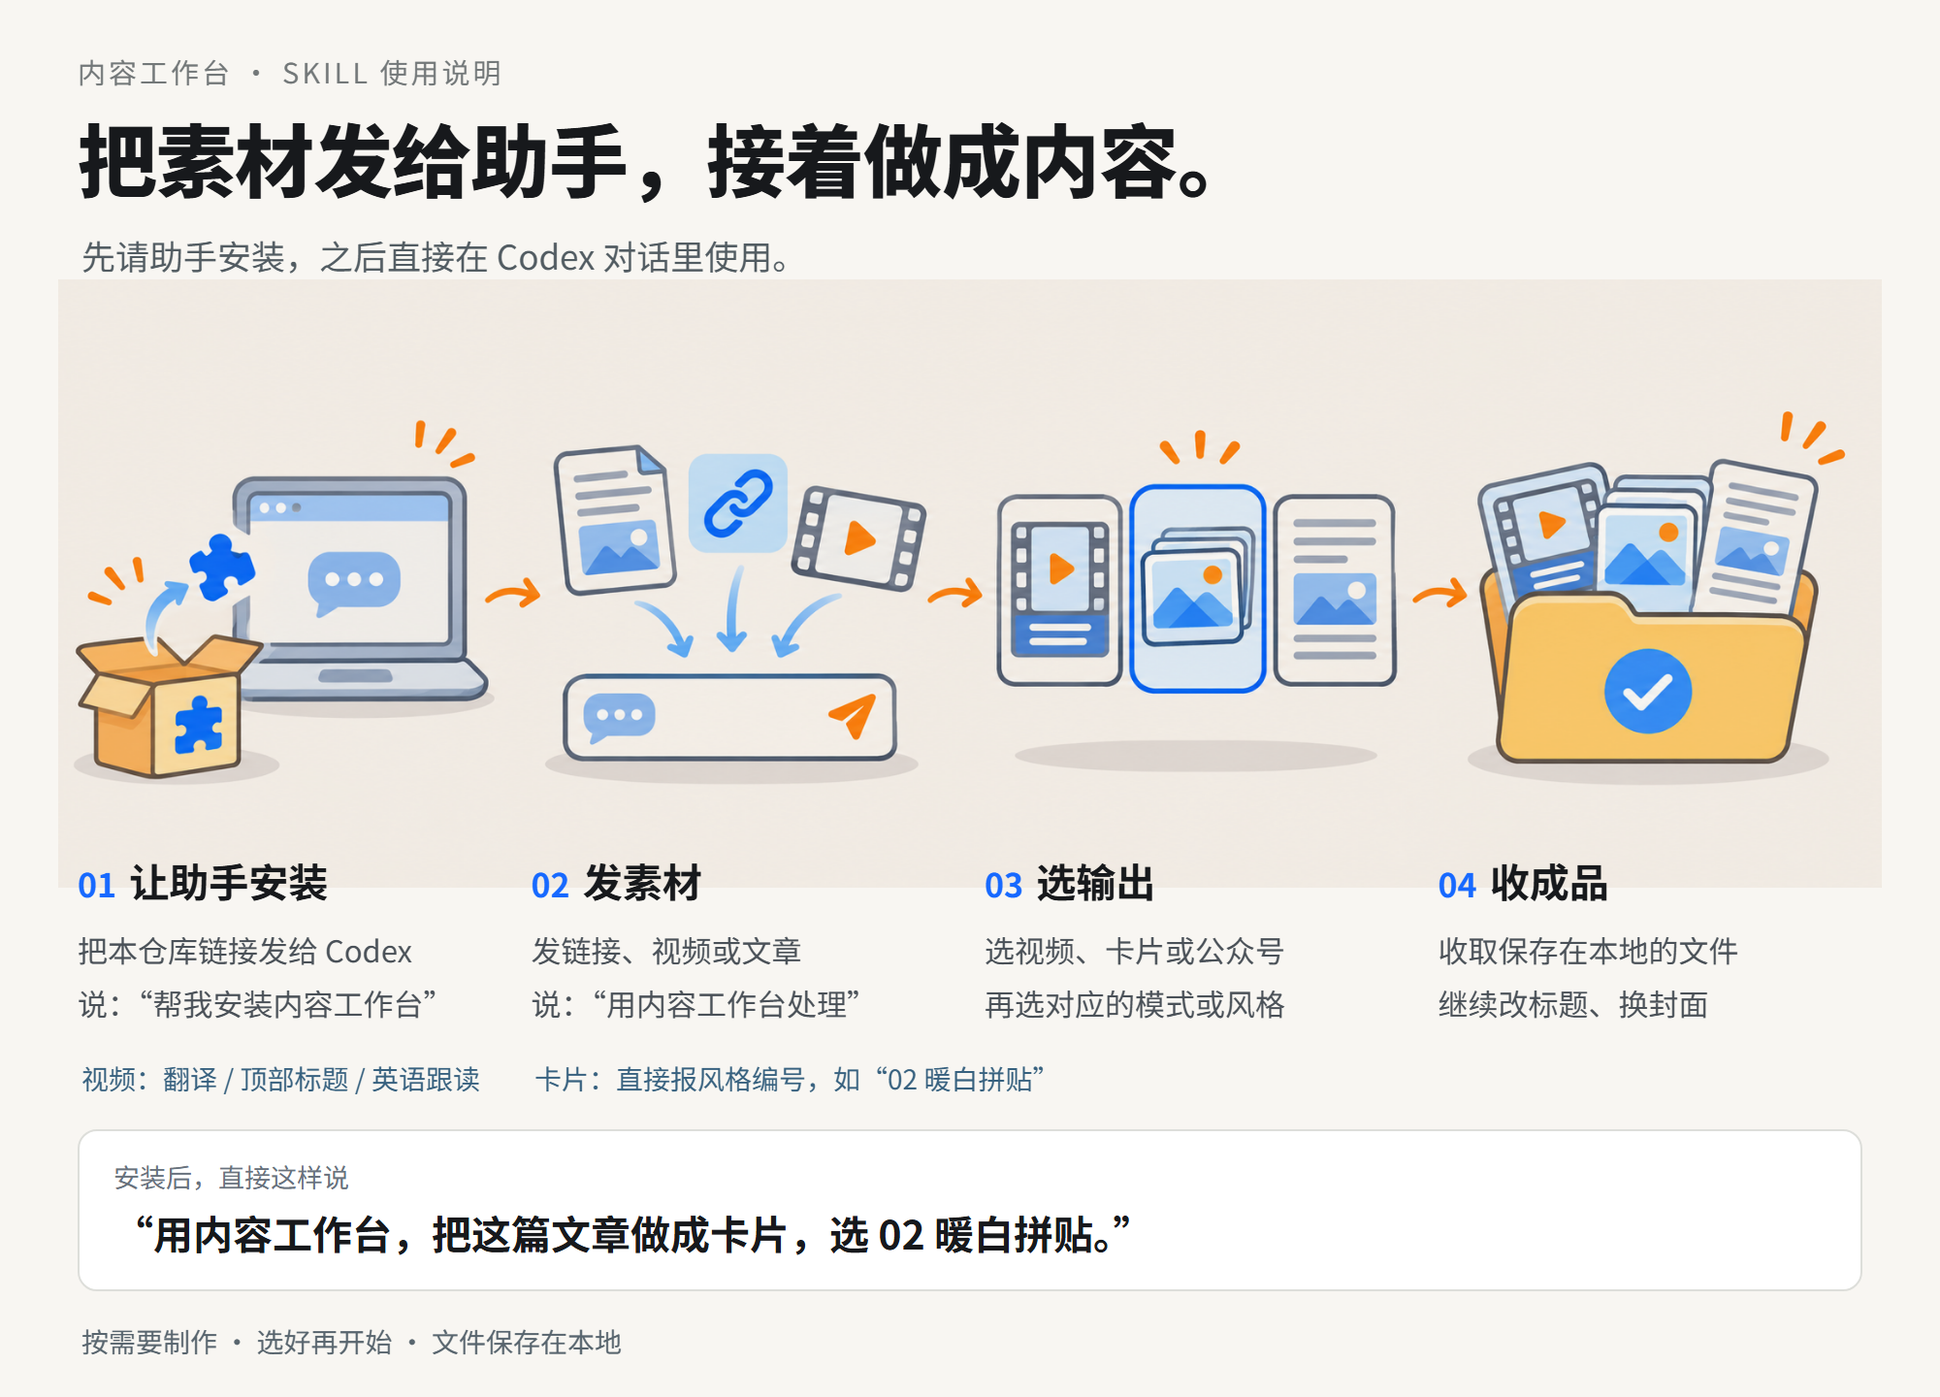
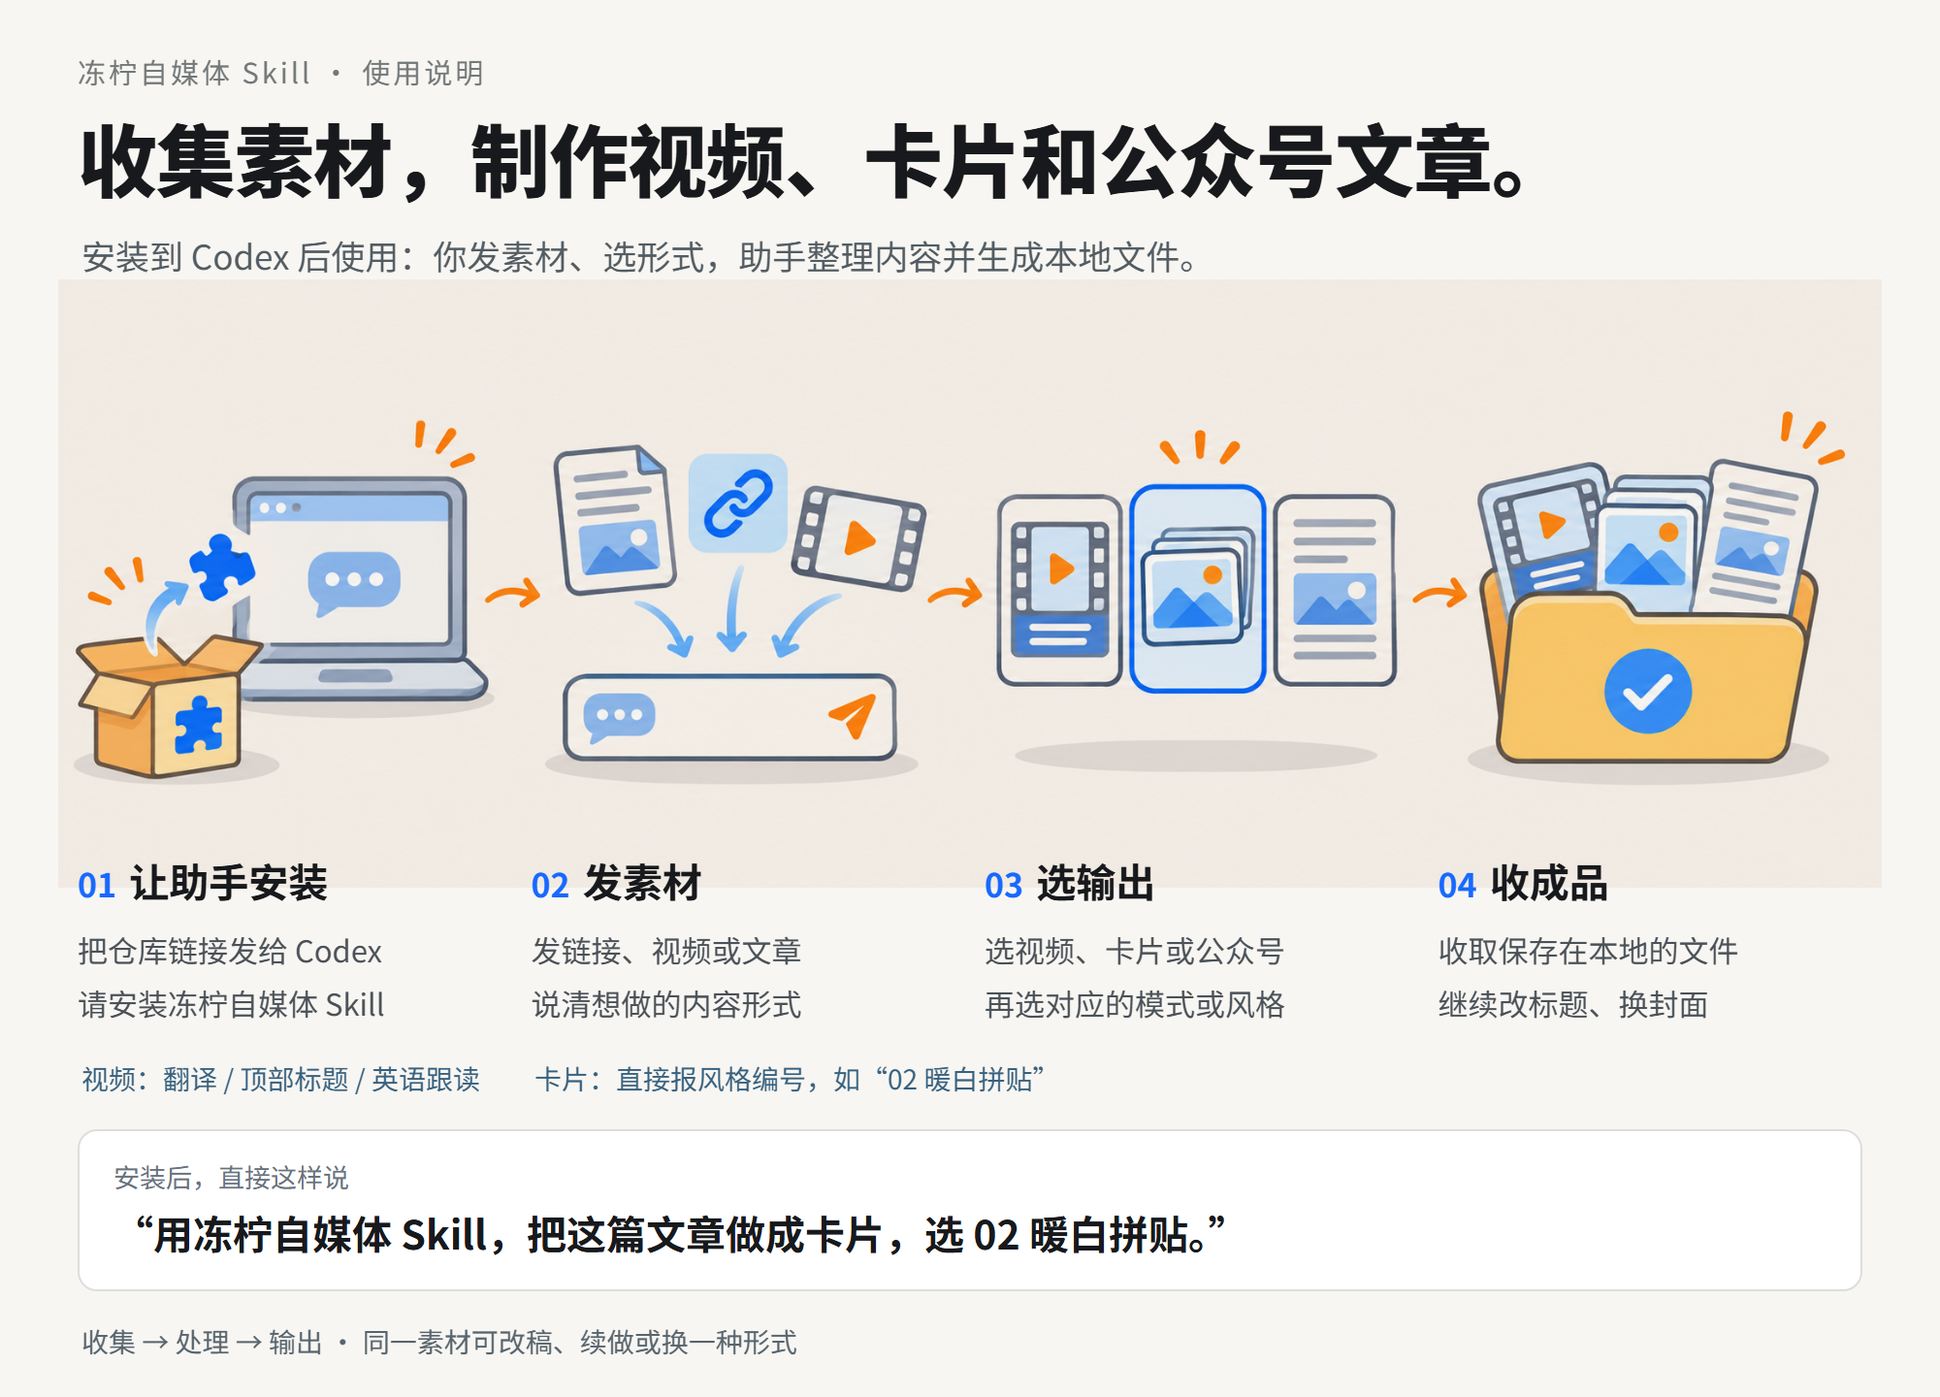
Rename public product to Dongning Media Skill and explain creator workflow

diff --git a/tools/build_release.py b/tools/build_release.py
@@ -8,6 +8,7 @@ from pathlib import Path
 ROOT = Path(__file__).resolve().parents[1]
 FILES = ("README.md", "LICENSE", "pyproject.toml", "THIRD_PARTY_NOTICES.md", "CONTRIBUTING.md", ".gitignore", ".gitattributes")
 DIRECTORIES = ("skills", "docs", "examples", "tools", "tests", ".github")
+ARCHIVE_ROOT = "dongning-media-skill"
 
 
 def public_files():
@@ -40,17 +41,17 @@ def main():
     version = release_version()
     directory = ROOT / "dist"
     directory.mkdir(exist_ok=True)
-    target = directory / f"content-workbench-v{version}.zip"
+    target = directory / f"{ARCHIVE_ROOT}-v{version}.zip"
     if target.exists():
         suffix = 2
-        while (directory / f"content-workbench-v{version}-{suffix}.zip").exists():
+        while (directory / f"{ARCHIVE_ROOT}-v{version}-{suffix}.zip").exists():
             suffix += 1
-        target = directory / f"content-workbench-v{version}-{suffix}.zip"
+        target = directory / f"{ARCHIVE_ROOT}-v{version}-{suffix}.zip"
     files = public_files()
     with zipfile.ZipFile(target, "w", zipfile.ZIP_DEFLATED) as archive:
         for path in files:
-            archive.write(path, "content-workbench/" + path.relative_to(ROOT).as_posix())
-        archive.writestr("content-workbench/release-manifest.json", json.dumps({"version": version, "files": [{"path": p.relative_to(ROOT).as_posix(), "sha256": hashlib.sha256(p.read_bytes()).hexdigest()} for p in files]}, ensure_ascii=False, indent=2))
+            archive.write(path, ARCHIVE_ROOT + "/" + path.relative_to(ROOT).as_posix())
+        archive.writestr(ARCHIVE_ROOT + "/release-manifest.json", json.dumps({"version": version, "files": [{"path": p.relative_to(ROOT).as_posix(), "sha256": hashlib.sha256(p.read_bytes()).hexdigest()} for p in files]}, ensure_ascii=False, indent=2))
     print(json.dumps({"archive": str(target), "bytes": target.stat().st_size, "files": len(files), "sha256": hashlib.sha256(target.read_bytes()).hexdigest()}, indent=2))
 
 

diff --git a/skills/content-workbench/scripts/content_workbench/cli.py b/skills/content-workbench/scripts/content_workbench/cli.py
@@ -42,7 +42,7 @@ def doctor(workspace):
 
 
 def parser():
-    p = argparse.ArgumentParser(description="Content Workbench — collect, process and export with an AI host")
+    p = argparse.ArgumentParser(description="冻柠自媒体 Skill — collect sources and produce videos, image cards and WeChat articles")
     p.add_argument("--workspace", default=os.environ.get("CWB_WORKSPACE", str(Path.home() / ".content-workbench")))
     p.add_argument("--version", action="version", version=__version__)
     commands = p.add_subparsers(dest="command", required=True)

diff --git a/skills/content-workbench/scripts/content_workbench/__init__.py b/skills/content-workbench/scripts/content_workbench/__init__.py
@@ -1,2 +1,2 @@
-"""Content Workbench: filesystem-first tools for agent-assisted content production."""
-__version__ = "0.1.2"
+"""Dongning Media Skill: local tools for collecting and producing creator content."""
+__version__ = "0.1.3"

diff --git a/docs/advanced.md b/docs/advanced.md
@@ -1,6 +1,6 @@
 # 详细安装与进阶使用
 
-把素材收进来，再按需要做成字幕视频、图文卡片与公众号文章。
+冻柠自媒体 Skill 用于把收集的链接、视频和文章，制作成中英字幕视频、图文卡片或公众号文章。可先保存素材，再加工、检查和导出，之后继续改稿或复用。
 
 这是一个安装到 AI 助手中的 **Skill + 本地工具包**。助手负责理解素材、研究、翻译和写作；工具负责收集、版本记录、确定性排版、媒体合成、检查和导出。v0.1 先支持 Codex；不包含在线账户系统或自动发布。
 
@@ -34,8 +34,8 @@
 需要 Python 3.10+。可以下载发布包并解压，或将仓库克隆到便于识别的目录：
 
 ```sh
-git clone https://github.com/s26233792-lab/-.git content-workbench
-cd content-workbench
+git clone https://github.com/s26233792-lab/-.git dongning-media-skill
+cd dongning-media-skill
 ```
 
 在项目目录运行：
@@ -46,6 +46,8 @@ python tools/install_skill.py
 ```
 
 安装工具把自包含技能复制到 Codex 的用户技能目录（遵守 `CODEX_HOME`）；同名技能已存在时停止，不覆盖。按照宿主的技能发现方式重新载入技能或开启新会话。
+
+界面显示名称为“冻柠自媒体 Skill”。内部技能标识 `content-workbench`、`cwb` 命令和既有素材目录继续兼容，已有内容无需迁移。
 
 视频制作另需 **FFmpeg 和 ffprobe**，并且 FFmpeg 构建包含 libass 与 libx264。在线视频下载和本地转录按需要安装：
 
@@ -87,16 +89,16 @@ python skills/content-workbench/scripts/cwb.py --workspace ./workspace init
 翻译与顶部标题只需句子时间，英语跟读才要求真实词时间。顶部标题是画面上的文字，与封面分别维护。
 
 ```text
-用内容工作台收集下面这五条链接，打上“待选题”标签，先不要下载或制作。
+用冻柠自媒体 Skill 收集下面这五条链接，打上“待选题”标签，先不要下载或制作。
 
-用内容工作台把刚收集的视频做成完整中英字幕版，配封面和小红书、抖音、X 文案。
+用冻柠自媒体 Skill 把刚收集的视频做成完整中英字幕版，配封面和小红书、抖音、X 文案。
 
 把第二条素材做成五张图文卡片，再给一份公众号文章发布包。
 
 接着上次的公众号稿，只改标题和封面，复用已经核验的来源。
 ```
 
-助手会按请求选择输出；缺少某类稿件不是额外制作它的授权。单独使用旧“短视频剪辑”“卡片知识”技能时，仍遵循各自入口；本技能用“内容工作台”或明确收集/跨格式加工请求触发。
+助手会按请求选择输出；缺少某类稿件不是额外制作它的授权。单独使用旧“短视频剪辑”“卡片知识”技能时，仍遵循各自入口；本技能用“冻柠自媒体 Skill”或明确收集/跨格式加工请求触发，旧称“内容工作台”仍可识别。
 
 ## 直接使用工具
 

diff --git a/README.md b/README.md
@@ -1,10 +1,16 @@
-# 内容工作台
+# 冻柠自媒体 Skill
 
-把链接、视频或文章发给助手，做成字幕视频、图文卡片或公众号文章。
+**冻柠自媒体 Skill 是一个给自媒体创作者用的 AI 技能包，在 Codex 对话里使用。** 把链接、视频或文章交给助手，告诉它用途，它会接着整理素材、加工文案，制作你需要的中文内容。
+
+- **做字幕视频**：为已有视频制作中英字幕成片，选择普通翻译、顶部标题或英语跟读，按需配封面和发布文案。
+- **做图文卡片**：把文章、访谈或资料整理成逐页内容，选择喜欢的视觉风格，输出图片和封面。
+- **做公众号文章**：整理正文、摘要、封面与配图，输出排版文件，方便复制到公众号后台。
+
+也可以先收藏素材，之后再制作。同一份资料支持继续改稿、换封面，或再做成另一种形式，把 **收集 → 处理 → 输出** 接起来。
 
 [下载安装包](https://github.com/s26233792-lab/-/releases/latest) · [详细安装](docs/advanced.md) · [成品示例](docs/advanced.md#离线输出示例)
 
-![内容工作台使用图解：让助手安装，发素材，选输出，收成品；附可直接使用的示例说法](docs/images/skill-usage.png)
+![冻柠自媒体 Skill 使用图解：安装后收集链接、视频和文章，选择输出形式，得到字幕视频、图文卡片或公众号文章](docs/images/skill-usage.png)
 
 **安装一次 → 发素材 → 选输出 → 收成品**
 
@@ -13,7 +19,7 @@
 先把下面这段话发给 Codex，让它帮你安装：
 
 ```text
-请帮我安装这个仓库里的内容工作台技能，并检查、准备需要的运行环境。
+请帮我安装这个仓库里的「冻柠自媒体 Skill」，并检查、准备需要的运行环境。
 保留我已有的文件。
 https://github.com/s26233792-lab/-
 ```
@@ -30,10 +36,10 @@ https://github.com/s26233792-lab/-
 
 | 你想做什么 | 发给助手这句话 |
 |---|---|
-| 先收藏素材 | 用内容工作台收集这些素材，先不要制作。 |
-| 做短视频 | 用内容工作台，把这个视频做成短视频，配好封面和发布文案。 |
-| 做图文卡片 | 用内容工作台，把这份资料做成一组图文卡片。 |
-| 做公众号文章 | 用内容工作台，把这份资料写成公众号文章，配好封面和排版。 |
+| 先收藏素材 | 用冻柠自媒体 Skill 收集这些素材，先不要制作。 |
+| 做短视频 | 用冻柠自媒体 Skill，把这个视频做成中英字幕版，配好封面和发布文案。 |
+| 做图文卡片 | 用冻柠自媒体 Skill，把这份资料做成一组图文卡片。 |
+| 做公众号文章 | 用冻柠自媒体 Skill，把这份资料写成公众号文章，配好封面和排版。 |
 
 ### 做视频时，你来选模式
 

diff --git a/docs/images/simulated-samples.md b/docs/images/simulated-samples.md
@@ -16,18 +16,20 @@
[1 lines of base64/hex data omitted]
 - 中文由 HTML/CSS 排版，字体加载后导出；标题、正文和页码单独定位，检查边界与实际画面。
 - 卡片标题通常为“把收藏 / 变成作品”；语录版为“先整理一份素材，再完成一份作品。”并标明“演示文案 · 非人物引语”。
-- 公共示例署名为“演示文案 · 内容工作台”；推文阅读作者为虚构的“示例创作者”，没有认证、互动数据或真实账号。
+- 公共示例署名为“演示文案 · 冻柠自媒体”；推文阅读作者为虚构的“示例创作者”，没有认证、互动数据或真实账号。
 
 ## 使用图中的文字
 
-1. 让助手安装：把本仓库链接发给 Codex，说“帮我安装内容工作台”。
-2. 发素材：发链接、视频或文章，说“用内容工作台处理”。
+1. 让助手安装：把本仓库链接发给 Codex，说“请安装冻柠自媒体 Skill”。
+2. 发素材：发链接、视频或文章，说明这次想做的内容形式。
 3. 选输出：选视频、卡片或公众号，再选对应的模式或风格。
 4. 收成品：收取保存在本地的文件，继续改标题、换封面。
 
-示例说法：“用内容工作台，把这篇文章做成卡片，选 02 暖白拼贴。”
+示例说法：“用冻柠自媒体 Skill，把这篇文章做成卡片，选 02 暖白拼贴。”
 
 这是说明用图，不是真实应用界面截图，也不代表七套命令行自动换肤已经实现。
+
+2026-11-06 更名后，图内的产品名称与示例说法已重新排版为“冻柠自媒体 Skill”；无字插画继续复用。以下保留当时实际生成提示词，其中旧产品名称属于原始记录。
 
 ## 实际图像生成提示词
 

diff --git a/docs/validation.md b/docs/validation.md
@@ -44,3 +44,9 @@ The release includes the updated skill entry point, user-selected card-style ins
 The style library is an instruction and reference library for the host assistant. The local card renderer still provides its documented dark base template; the seven previews do not imply seven automatic renderer themes. Other styles require the host's actual illustration, typography and image-export capabilities.
 
 No media-rendering logic changes in this release. The regular suite covers 28 tests; eight opt-in media tests remain conditional on FFmpeg and a verified font. Earlier media results above remain versioned evidence, not a new media run for v0.1.2.
+
+## v0.1.3 display name and distribution
+
+The public name is now 冻柠自媒体 Skill (Dongning Media Skill). The skill description, Codex display metadata, usage examples and image labels use that name and explain collection, editing and the three output formats. The technical skill ID `content-workbench`, Python module, `cwb` command and existing workspace locations remain compatible.
+
+Source archives now use the `dongning-media-skill-vVERSION.zip` filename and `dongning-media-skill/` top-level directory. Archive file hashes, extracted skill references, display metadata and launcher behavior are checked from an isolated installation. Card and usage-guide images were typeset again from their existing editable layouts; the original image-generation prompts remain recorded verbatim.

diff --git a/skills/content-workbench/SKILL.md b/skills/content-workbench/SKILL.md
@@ -1,11 +1,11 @@
 ---
 name: content-workbench
-description: 内容工作台：收集链接、视频和文章到本地素材箱，按需加工为双语字幕视频、图文卡片或公众号文章发布包，支持跨格式复用、修订、续做和归档。用户说“内容工作台”、要求先收集后加工或将同一素材转成多种发布形式时使用；不接管单纯文件问答。
+description: 冻柠自媒体 Skill：为自媒体创作者收集链接、视频和文章，按需加工为中英字幕视频、图文卡片或公众号文章，配套封面和发布文案，支持改稿、续做和素材复用。用户说“冻柠自媒体 Skill”“冻柠自媒体”“内容工作台”（旧名），或要求从素材收集接着制作中文发布内容时使用；不接管单纯文件问答。
 ---
 
-# 内容工作台
+# 冻柠自媒体 Skill
 
-让用户从收集素材走到获得可检查的成品。一个入口，按请求选择输出，复用来源而不混淆翻译与编辑解读。
+为自媒体创作者完成素材收集、内容加工和成品输出。接收链接、本地视频或文章，按本次用途制作中英字幕视频、图文卡片或公众号文章，并按需补封面和发布文案。保存来源、稿件和成品，支持改稿、续做和跨形式复用。
 
 ## 开始与路由
 

diff --git a/skills/content-workbench/references/card-styles.md b/skills/content-workbench/references/card-styles.md
@@ -25,7 +25,7 @@
 - 系列保持相同配色、字级与图像处理。换风格时保留已核实文稿与素材；已有同一人物优先复用或编辑，不能为了换背景重新生成另一张脸。
 - 小知是编辑讲解角色，保持体型、五官与蓝色蝴蝶结；可以改动作、场景和道具。不得把来源人物经历改成角色亲历，不用伪造的对话气泡冒充原话。
 - 语录需核对实际原文与作者；模拟语录为项目自编短句，不能替代本次来源核验。正文密度与张数服从信息量，不为了模板删掉条件或重复凑页。
-- 署名取当前用户配置。不把“示例创作者”“内容工作台 / 模拟示例”等演示标识写进正式作品。
+- 署名取当前用户配置。不把“示例创作者”“冻柠自媒体 / 模拟示例”等演示标识写进正式作品。
 - 生成插画用于解释或装饰；原始界面、引文、图表和现场照片使用真实素材。字体遵循技能已核实字体原则；参考图片的字体外观不等于可用字体许可。
 
 ## 能力与交付边界

diff --git a/skills/content-workbench/references/styles/NOTICE.md b/skills/content-workbench/references/styles/NOTICE.md
@@ -1,6 +1,6 @@
 # 模拟样张说明
 
-本目录七张 PNG 于 2026-11-06 重新制作，统一使用“把收藏变成作品”的演示主题，替换此前展示的历史参考。每张 1080×1440、3:4。它们用于比较视觉方向，不是七套内置自动换肤模板，也不是实际来源、名人引语或平台截图。
+本目录七张 PNG 于 2026-11-06 重新制作并同步为冻柠自媒体 Skill 的名称，统一使用“把收藏变成作品”的演示主题，替换此前展示的历史参考。每张 1080×1440、3:4。它们用于比较视觉方向，不是七套内置自动换肤模板，也不是实际来源、名人引语或平台截图。
 
 | 文件 | 本次制作 |
 |---|---|

diff --git a/docs/card-styles.md b/docs/card-styles.md
@@ -5,7 +5,7 @@
 ![七种卡片风格模拟样张对照](images/card-styles-overview.png)
 
 ```text
-用内容工作台，把这份资料做成图文卡片，选 02 暖白拼贴。
+用冻柠自媒体 Skill，把这份资料做成图文卡片，选 02 暖白拼贴。
 ```
 
 也可以说“换成白底极简，正文不动”“这组继续用上次的小知漫画”。新任务没指定时，助手先展示选项；已经选过的同一系列直接沿用。只有你明确说“帮我选”，才由助手代选。

diff --git a/examples/article.md b/examples/article.md
@@ -2,7 +2,7 @@
 
 我们很容易把“存下来了”当作“以后能用”。真正开写时，常常还得回头找原文，重新确认是谁说的，再想一次这份材料适合做什么。
 
-这是一份自写的离线演示，展示内容工作台如何组织素材，不代表真实新闻或使用效果承诺。
+这是一份自写的离线演示，展示冻柠自媒体 Skill如何组织素材，不代表真实新闻或使用效果承诺。
 
 ## 收集时，留下当时想用它的原因
 
